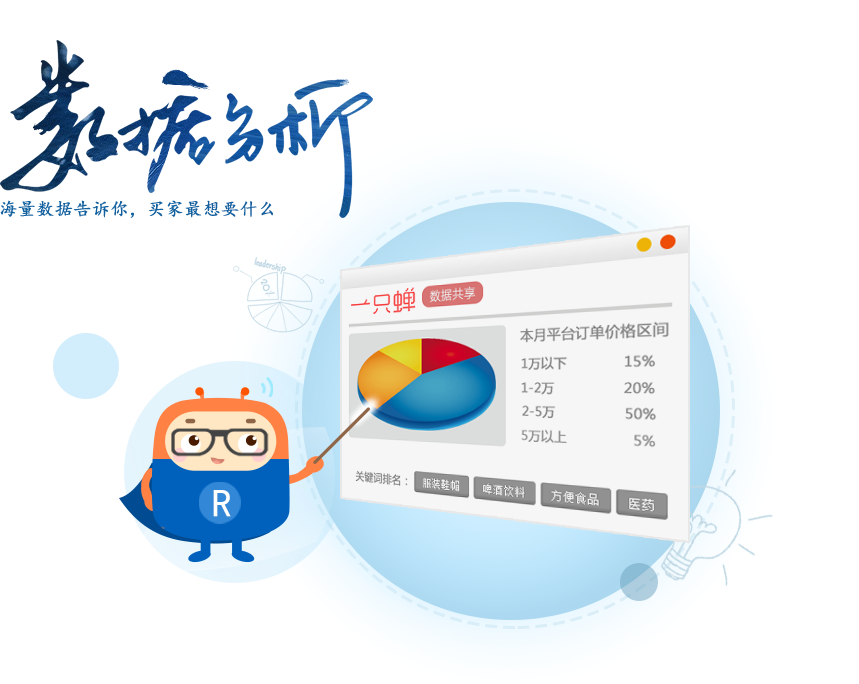
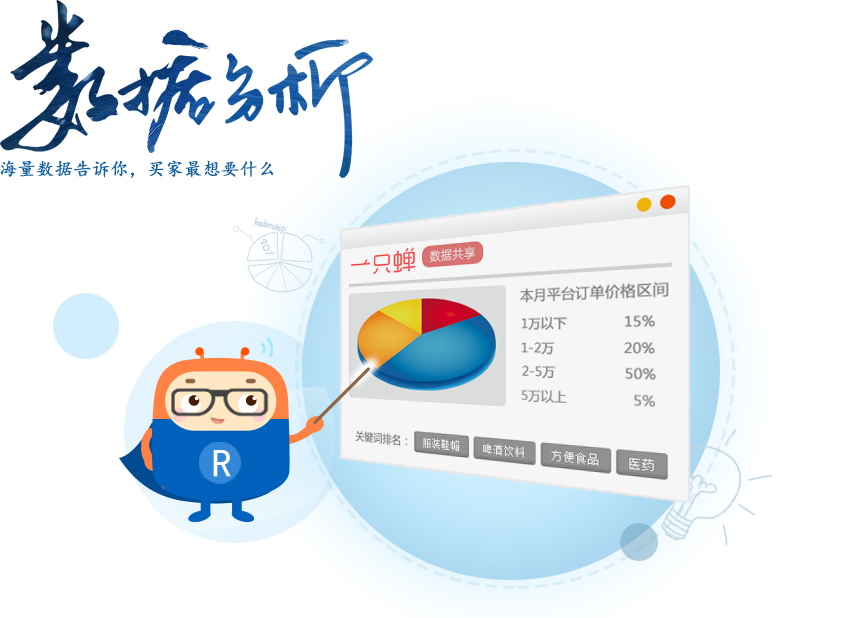
git-svn-id: http://192.168.0.5/svn/Member/trade/webseller@11561 8c2d0303-d7d2-0546-a2d7-8b6cbec2f4b4

diff --git a/Static/1.0/css/sell-common.css b/Static/1.0/css/sell-common.css
@@ -766,7 +766,7 @@ body,html{
 .picScroll-top .bd{ padding:10px;  width: 960px;margin:auto;  }
 .picScroll-top .bd ul{ overflow:hidden; zoom:1;position: relative; }
 .picScroll-top .bd ul li{ text-align:center; zoom:1;max-height: 694px;overflow: hidden;}
-.picScroll-top .bd ul li div{width: 960px;min-height: 751px;background-position:center center;background-repeat: no-repeat;}
+.picScroll-top .bd ul li div{width: 960px;min-height: 785px;background-position:center center;background-repeat: no-repeat;border: 1px solid red;}
 .picScroll-top .bd ul li .pic{ text-align:center; }
 .picScroll-top .bd ul li .pic img{ width:180px; height:90px; display:block;  padding:2px; border:1px solid #ccc; }
 .picScroll-top .bd ul li .pic a:hover img{ border-color:#999;  }
